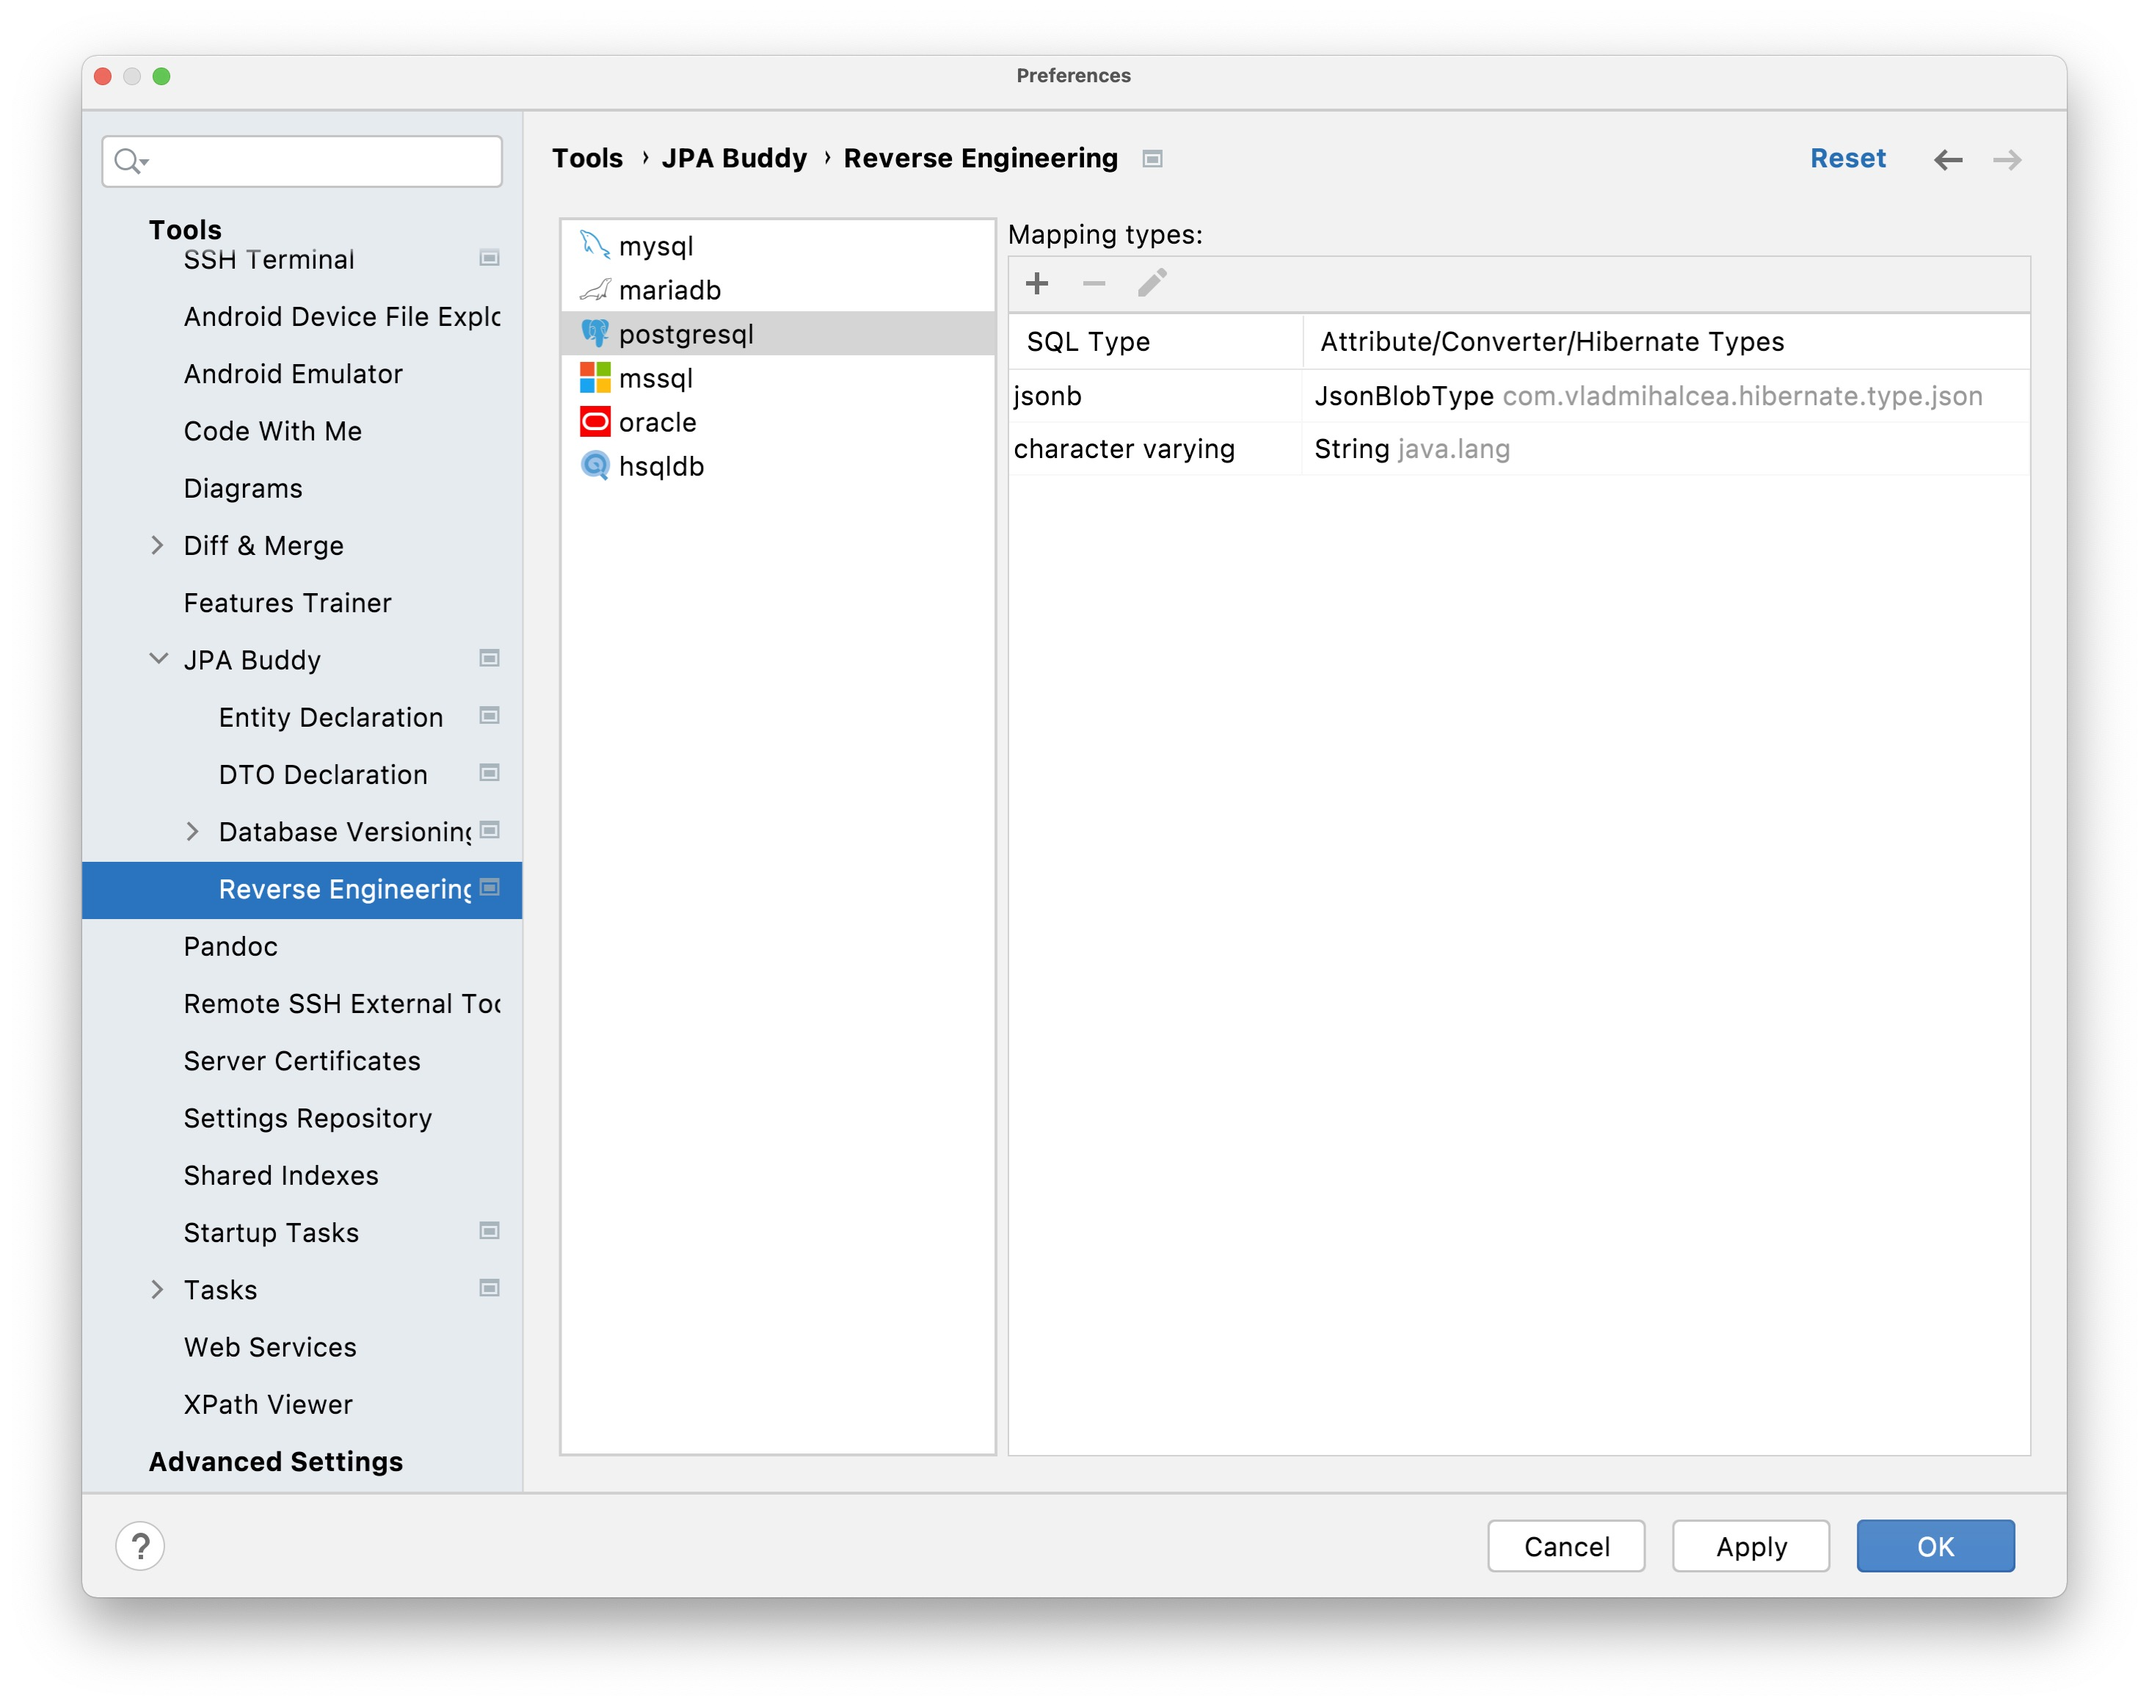
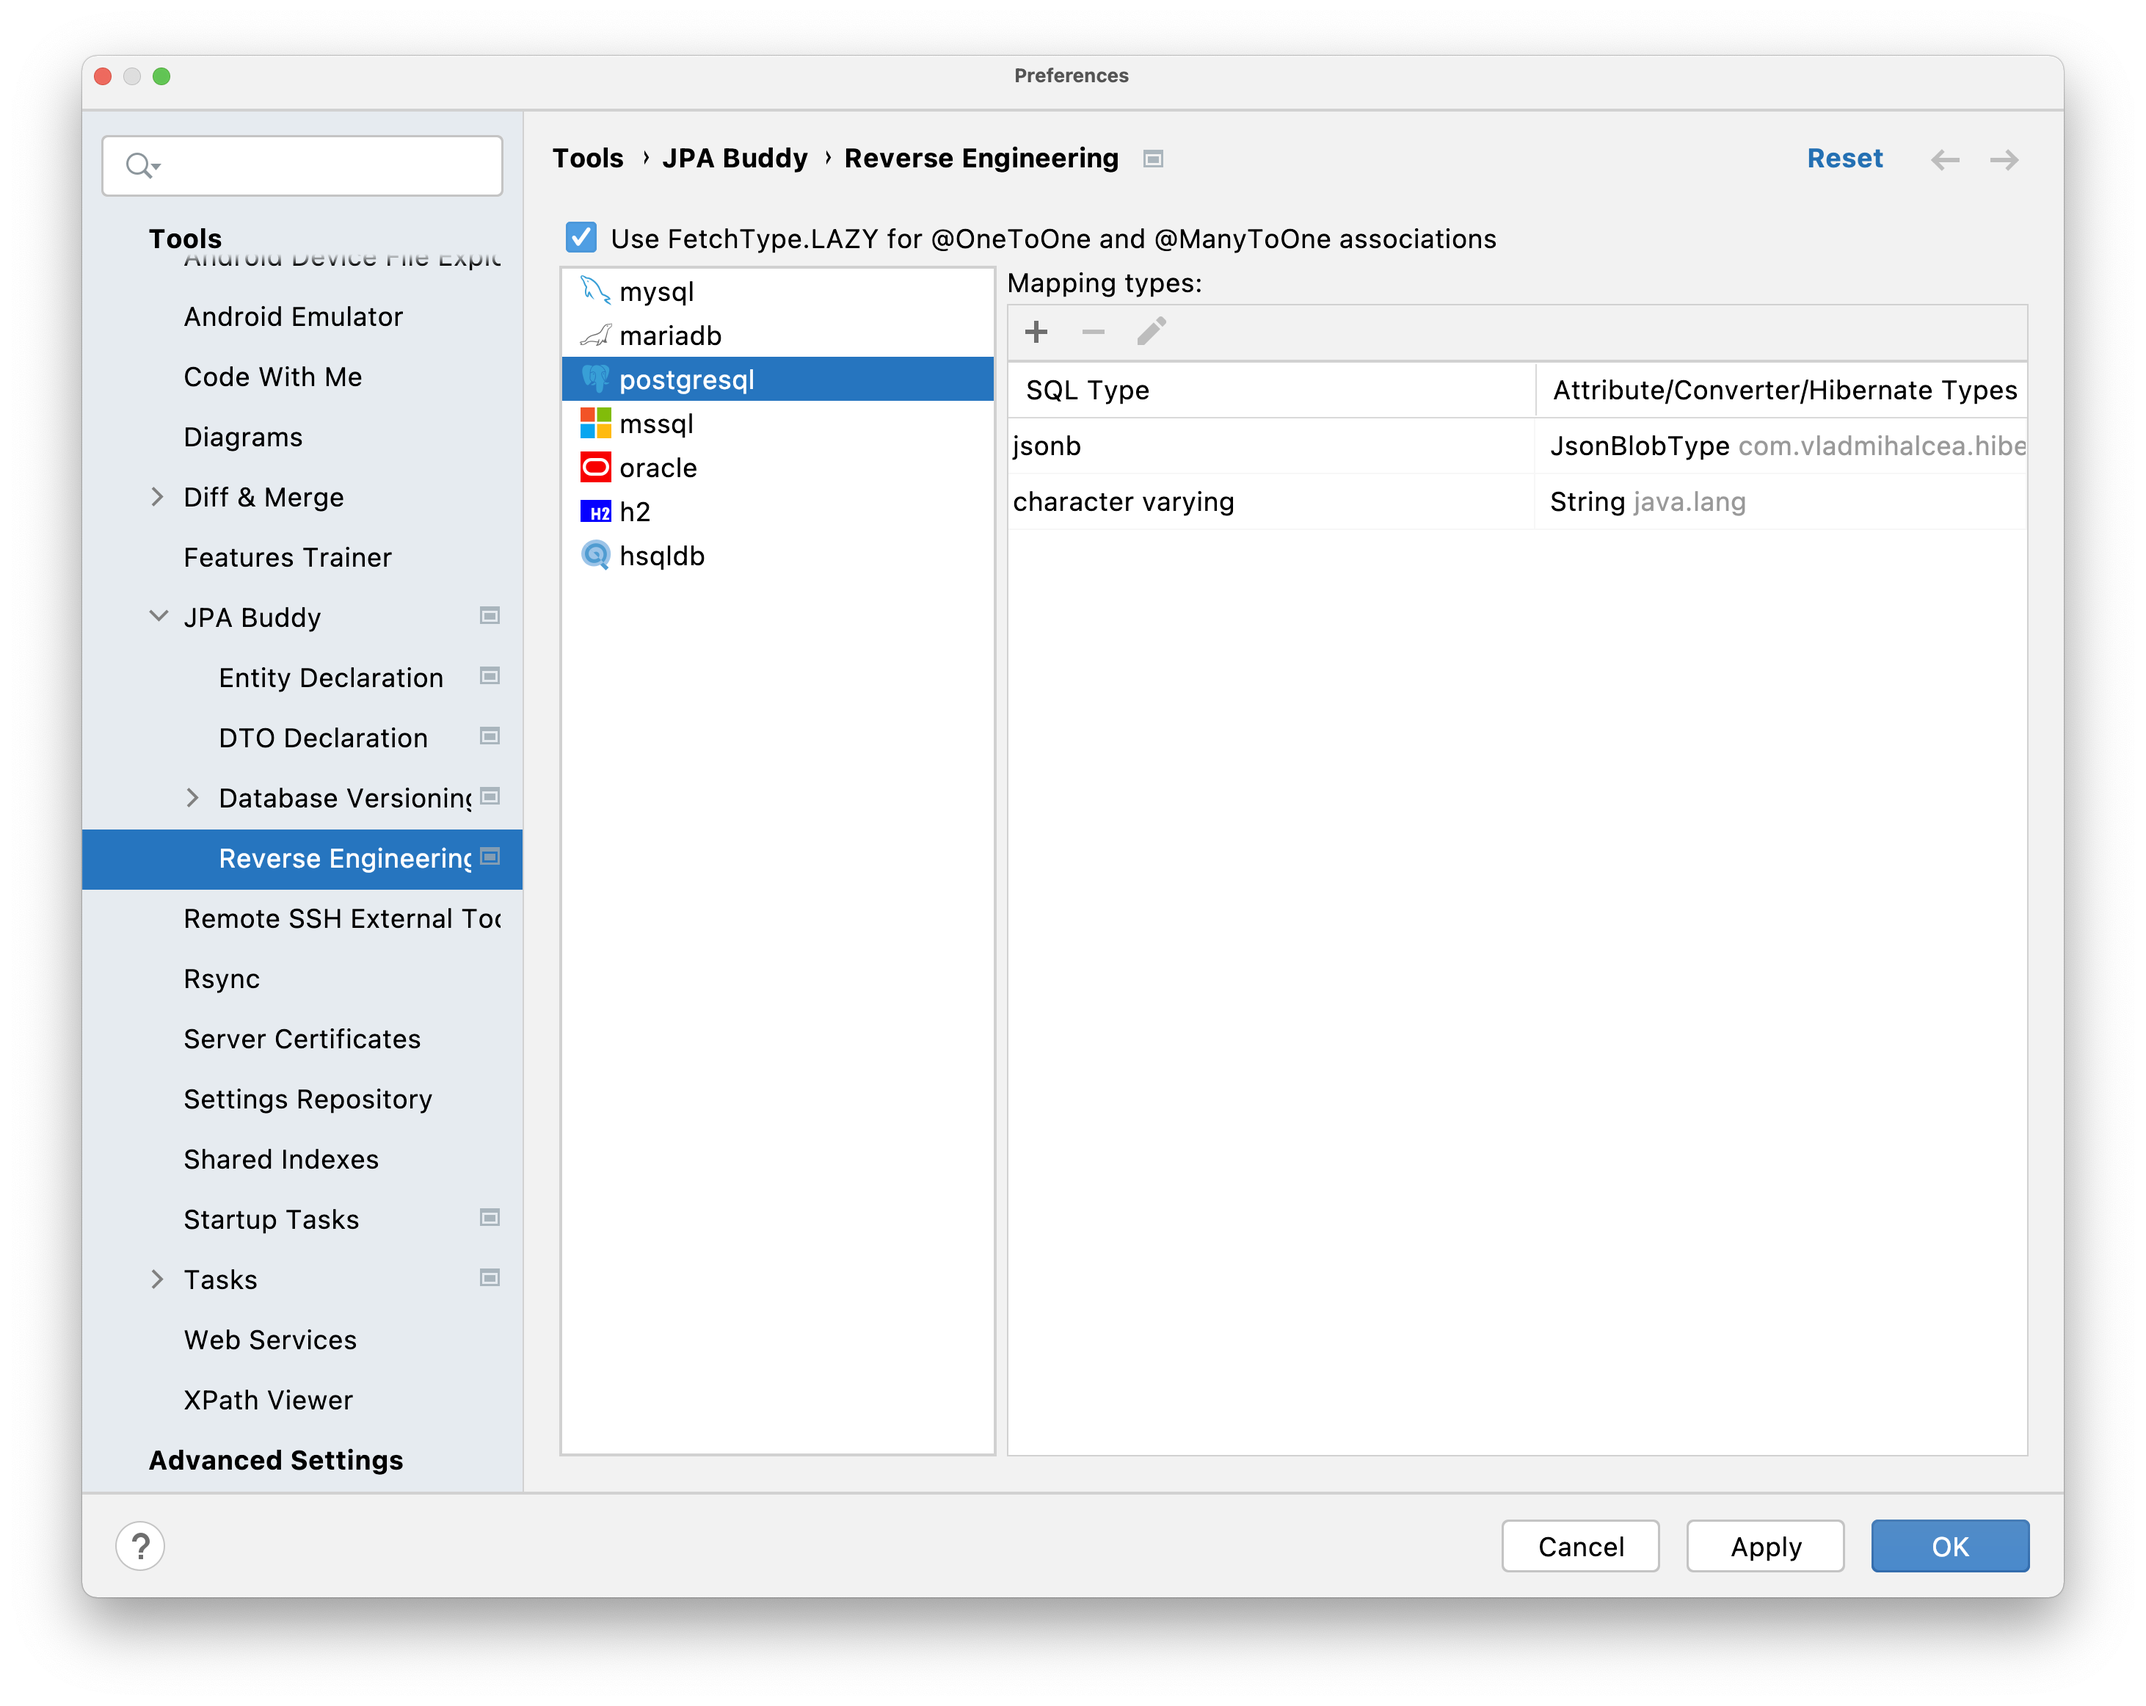
Add info about fetch type settings #32

diff --git a/reverse-engineering/reverse-engineering.md b/reverse-engineering/reverse-engineering.md
@@ -368,9 +368,21 @@ JPA Buddy follows all best practices providing the most efficient mapping for DB
 <div class="youtube" align="center">
 <iframe width="560" height="315" src="https://www.youtube.com/embed/QUXgJSkBJO8" title="YouTube video player" frameborder="0" allow="accelerometer; autoplay; clipboard-write; encrypted-media; gyroscope; picture-in-picture" allowfullscreen></iframe>
 </div>
+## Working With Remote DB 
 
+The larger the database and the slower the connection of the database (for example, if it is remote DB), the longer it will take to load DB schema. For better usability, JPA Buddy provides a DB schema cache. Once you enable it (1), a snapshot file will be created for the selected DB in the temporary directory. Otherwise, the DB schema will be loaded from the DB on each reverse engineering use. When you need it, you can refresh saved schema cache (2). 
 
-## Type Mappings 
+![new_entity_db_schema_cache](img/new_entity_db_schema_cache.jpeg)
+
+## Settings
+
+### Fetch Type
+
+To follow best practices and don't cause performance issues, JPA Buddy sets `FetchType.LAZY` for  `@`OneToOne and `@`ManyToOne associations by default. But you can change the default value in any time. Open Preferences -> Tools -> JPA Buddy -> Reverse Engineering:
+
+![fetch_type](img/fetch_type.jpeg)
+
+### Type Mappings
 
 When the application works with several DBMSs, your schema might have slightly different data types for each of them. 
 
@@ -379,10 +391,3 @@ Let’s say the application needs to support both PostgreSQL and MS SQL. And you
 JPA Buddy lets you specify type mappings for each DBMS. It is also possible to set mappings for JPA Converters and Hibernate Types: 
 
 ![preferences_reverse_engineering](img/preferences_reverse_engineering.jpeg)
-
-## Working With Remote DB 
-
-The larger the database and the slower the connection of the database (for example, if it is remote DB), the longer it will take to load DB schema. For better usability, JPA Buddy provides a DB schema cache. Once you enable it (1), a snapshot file will be created for the selected DB in the temporary directory. Otherwise, the DB schema will be loaded from the DB on each reverse engineering use. When you need it, you can refresh saved schema cache (2). 
-
-![new_entity_db_schema_cache](img/new_entity_db_schema_cache.jpeg)
-
